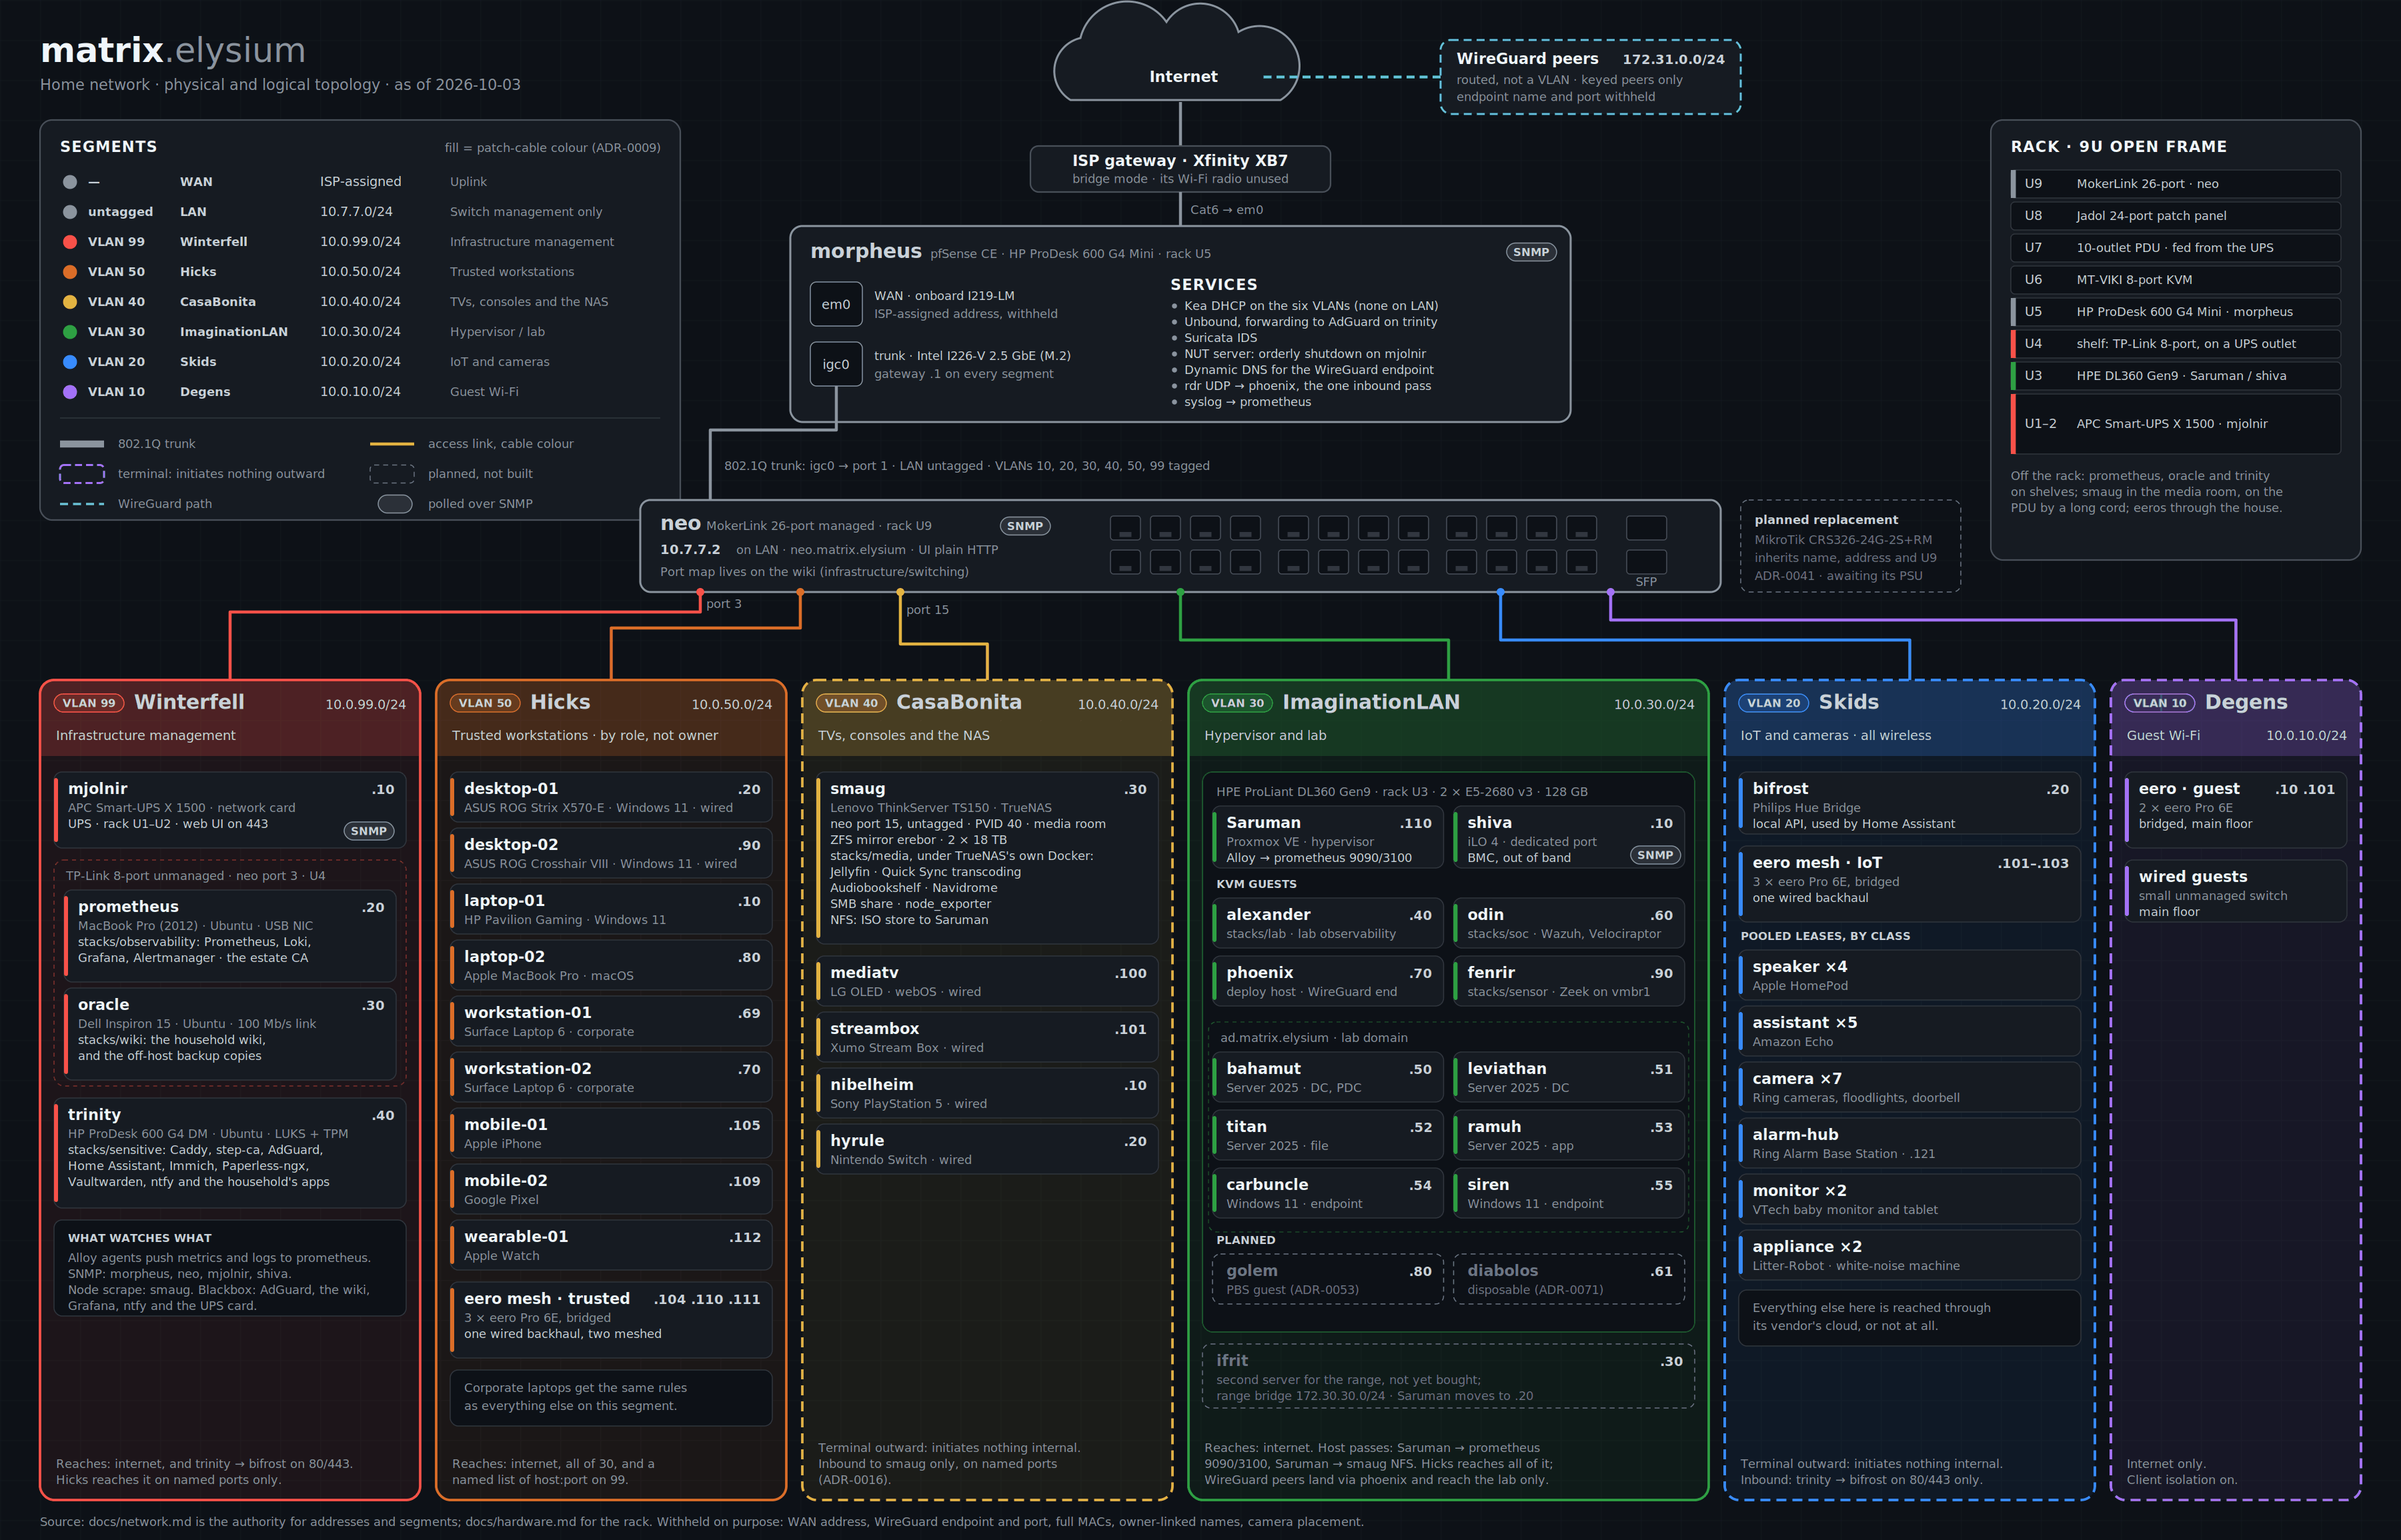
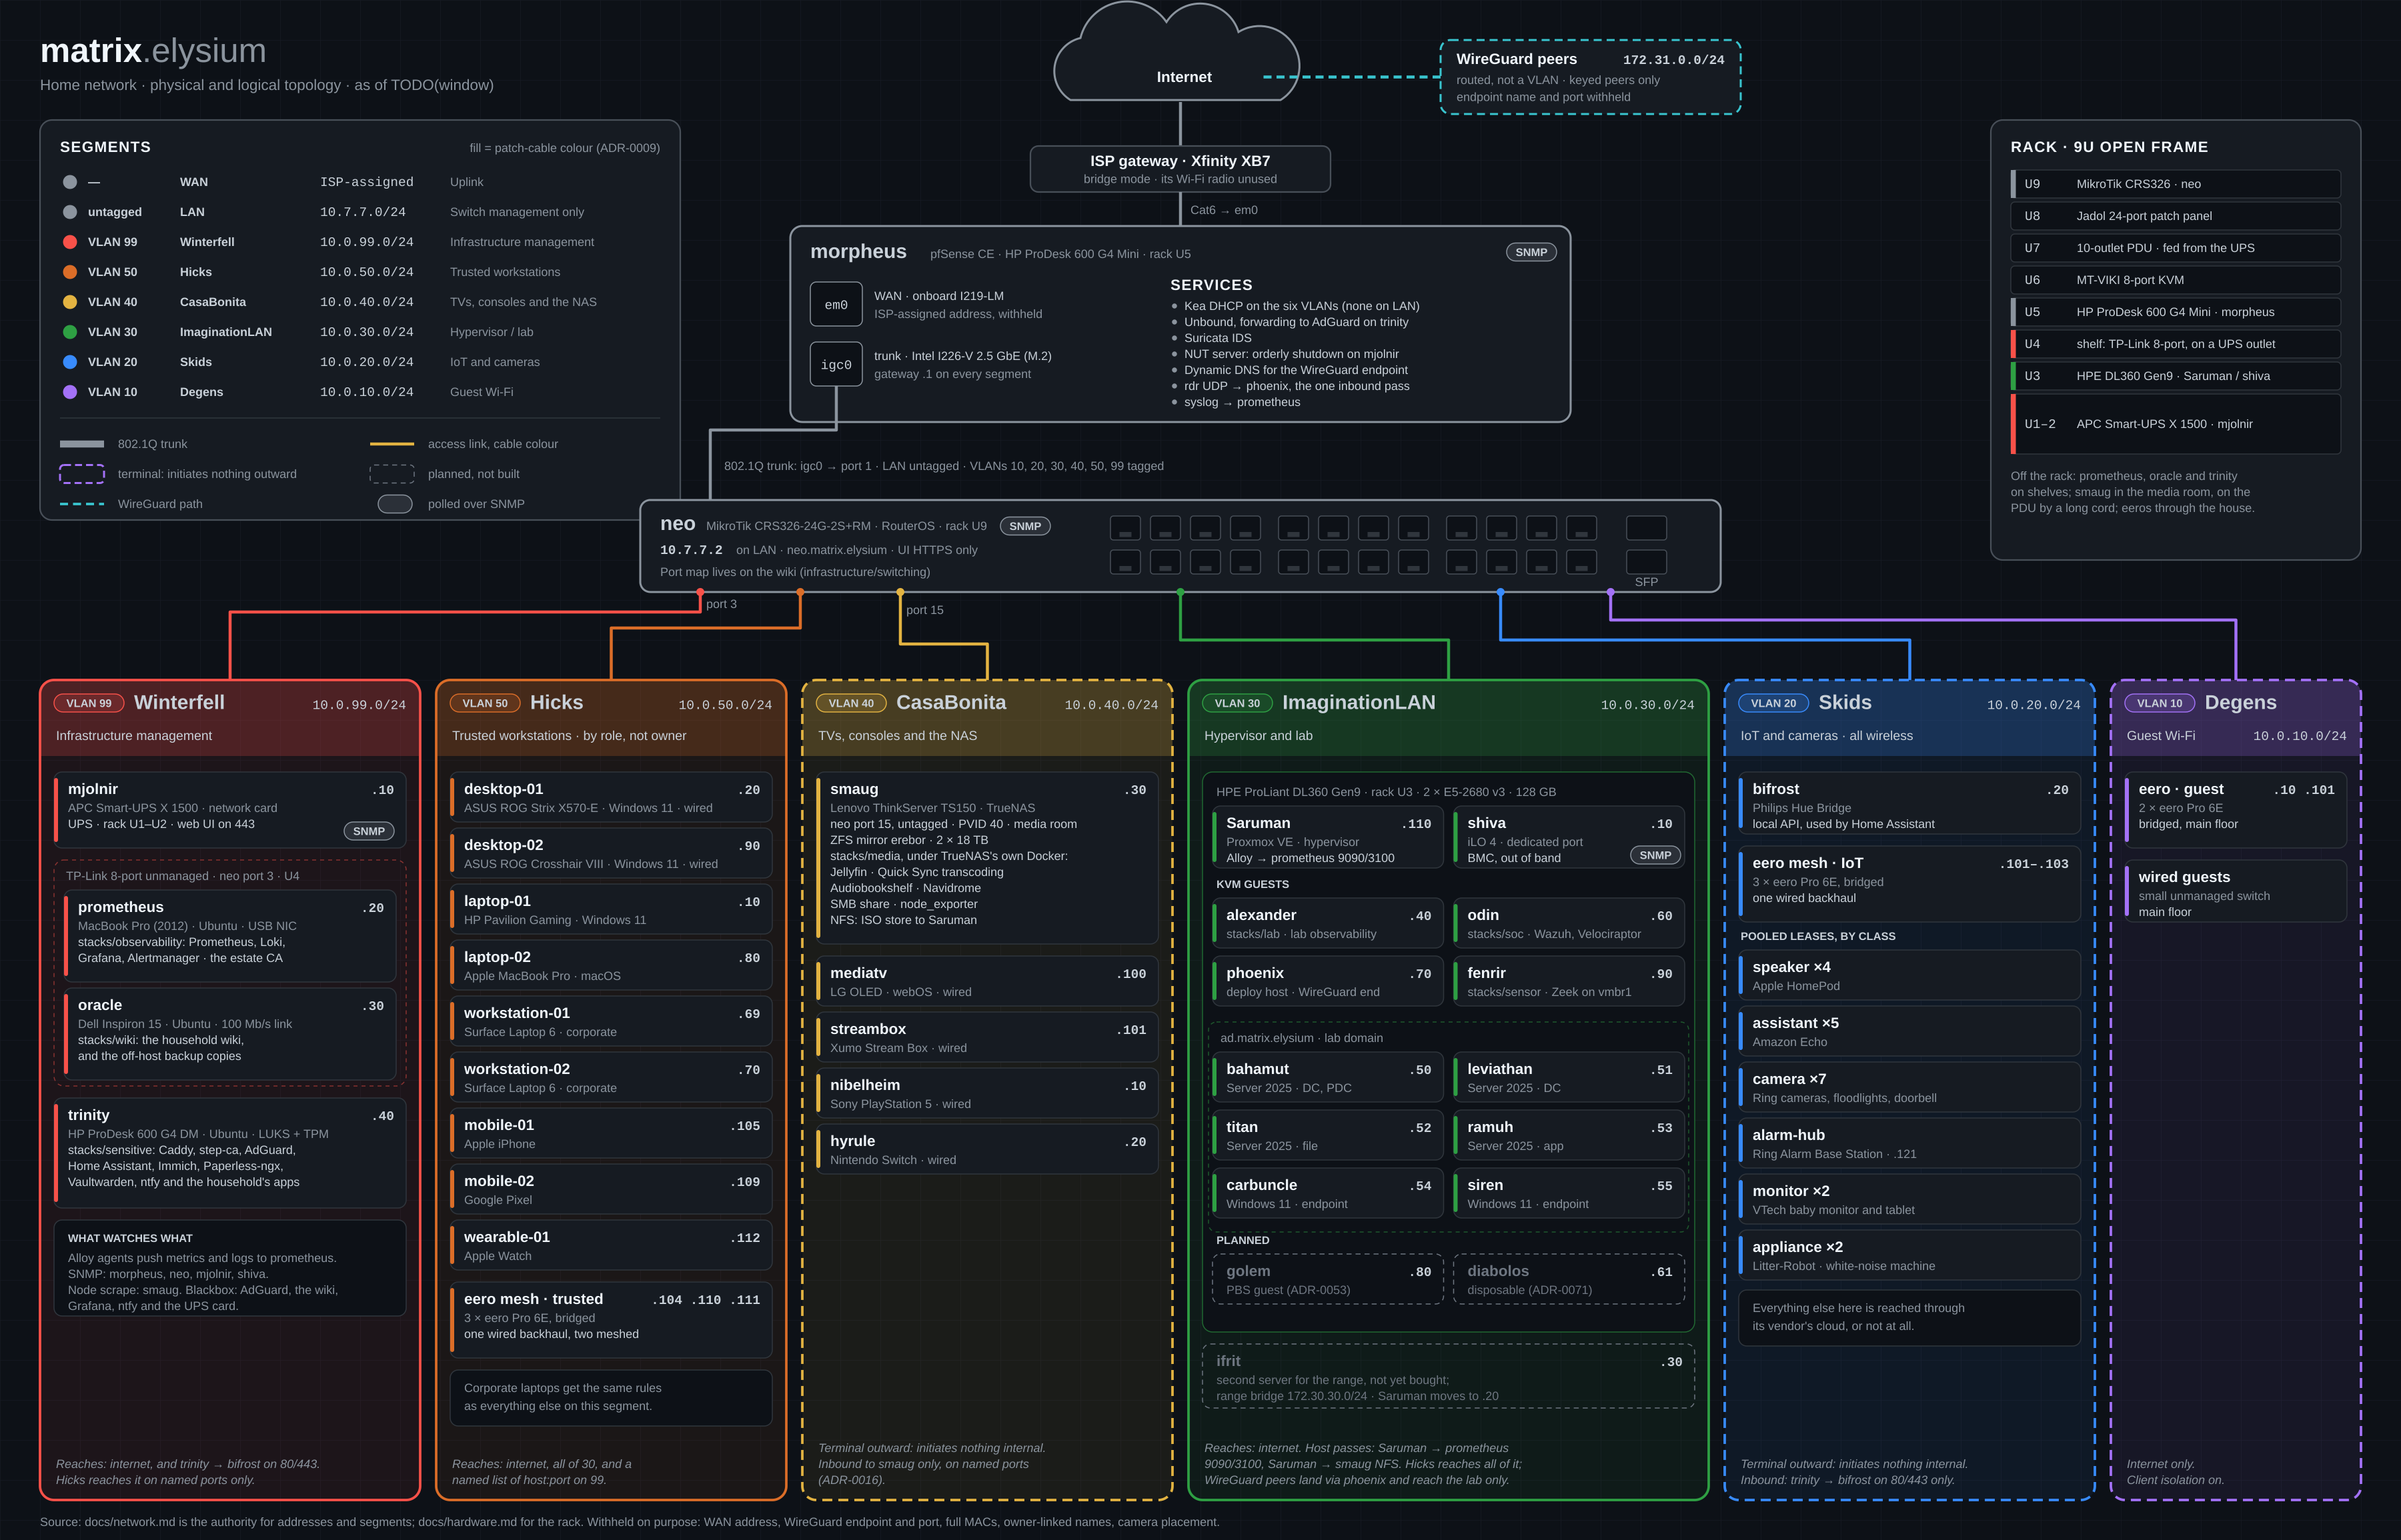
docs(diagrams): show neo as the CRS326 in the diagram and the README (#444)
main's network diagram (#880) and the README's hardware table arrived
after this branch was written, and both still described the MokerLink.

- network.svg: neo's box names the CRS326 on RouterOS and an HTTPS-only
  UI, rack U9 names the CRS326, and the "planned replacement" box is
  gone. The "as of" date is TODO(window), like the branch's other swap
  dates. network.png is re-rendered from it at 1.5x.
- README.md: the neo row in the hardware table.

The README's dashboard paragraph still says MokerLink. It describes the
"Switch (MokerLink, IF-MIB)" panel, which the post-walk follow-up renames.

Claude-Session: https://claude.ai/code/session_01Tu1PbnHrA8rdnZFCNKeuCe

diff --git a/README.md b/README.md
@@ -340,7 +340,7 @@ estate is as unglamorous:
 | Host | Hardware | Job |
 | --- | --- | --- |
 | `morpheus` | HP ProDesk 600 G4 Mini, a second NIC on an M.2 adapter | pfSense firewall |
-| `neo` | MokerLink 26-port managed switch | Core switching |
+| `neo` | MikroTik CRS326-24G-2S+RM | Core switching |
 | `Saruman` | HPE ProLiant DL360 Gen9, iLO 4 as `shiva` | Proxmox VE, and the lab's guests |
 | `smaug` | Lenovo ThinkServer TS150 | TrueNAS and the media stack |
 | `trinity` | HP ProDesk 600 G4 DM | The household's tier |
